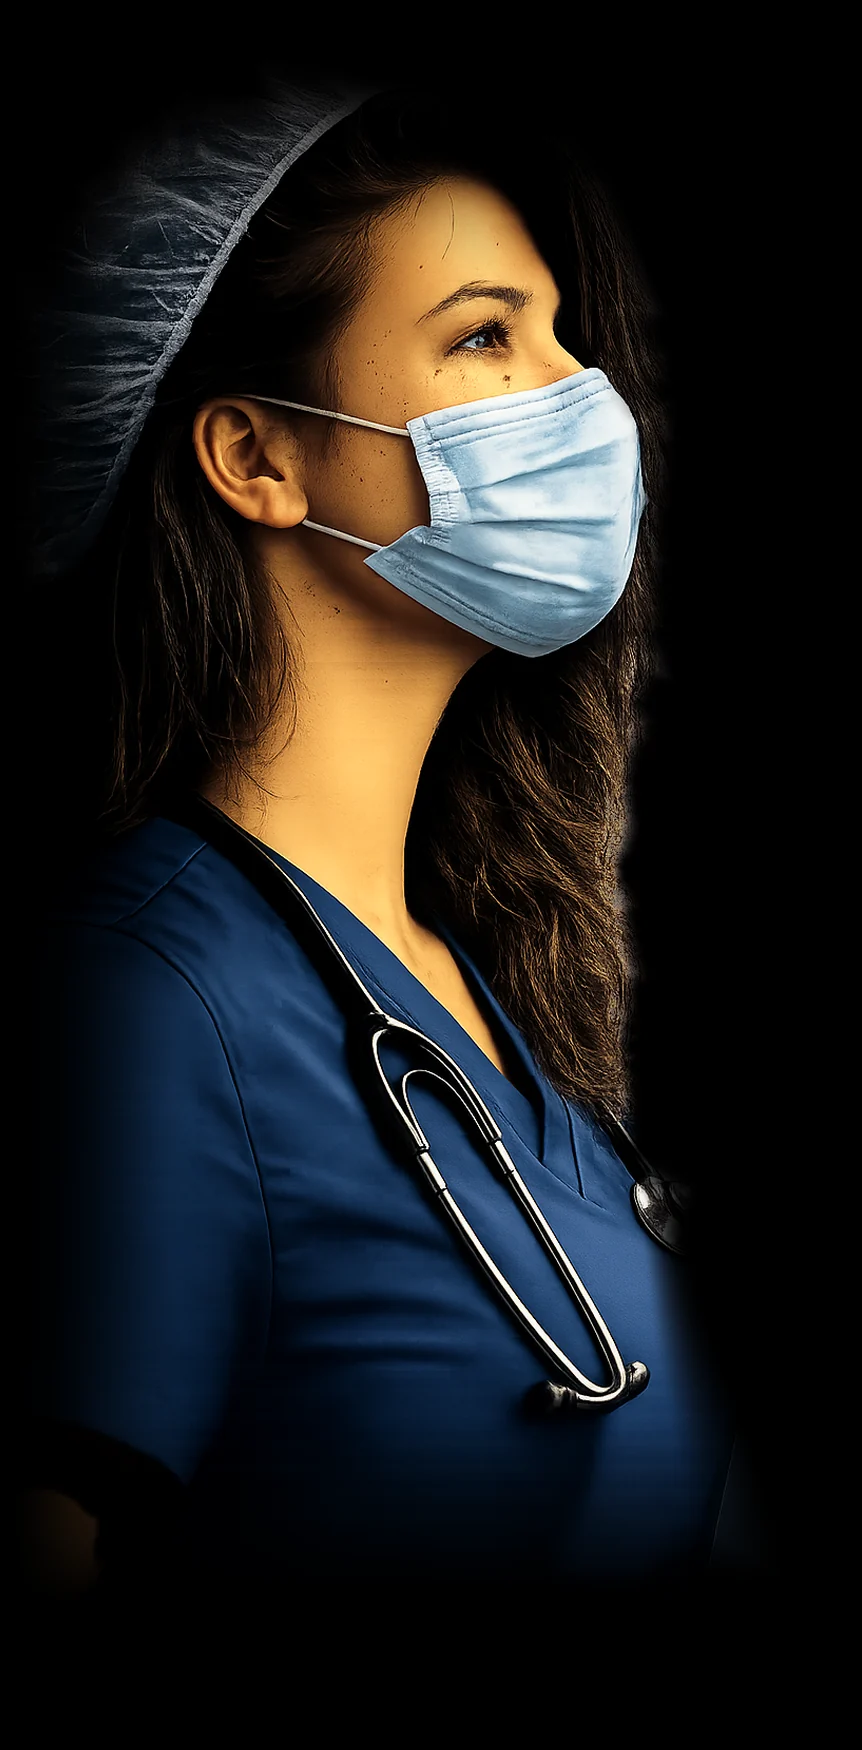
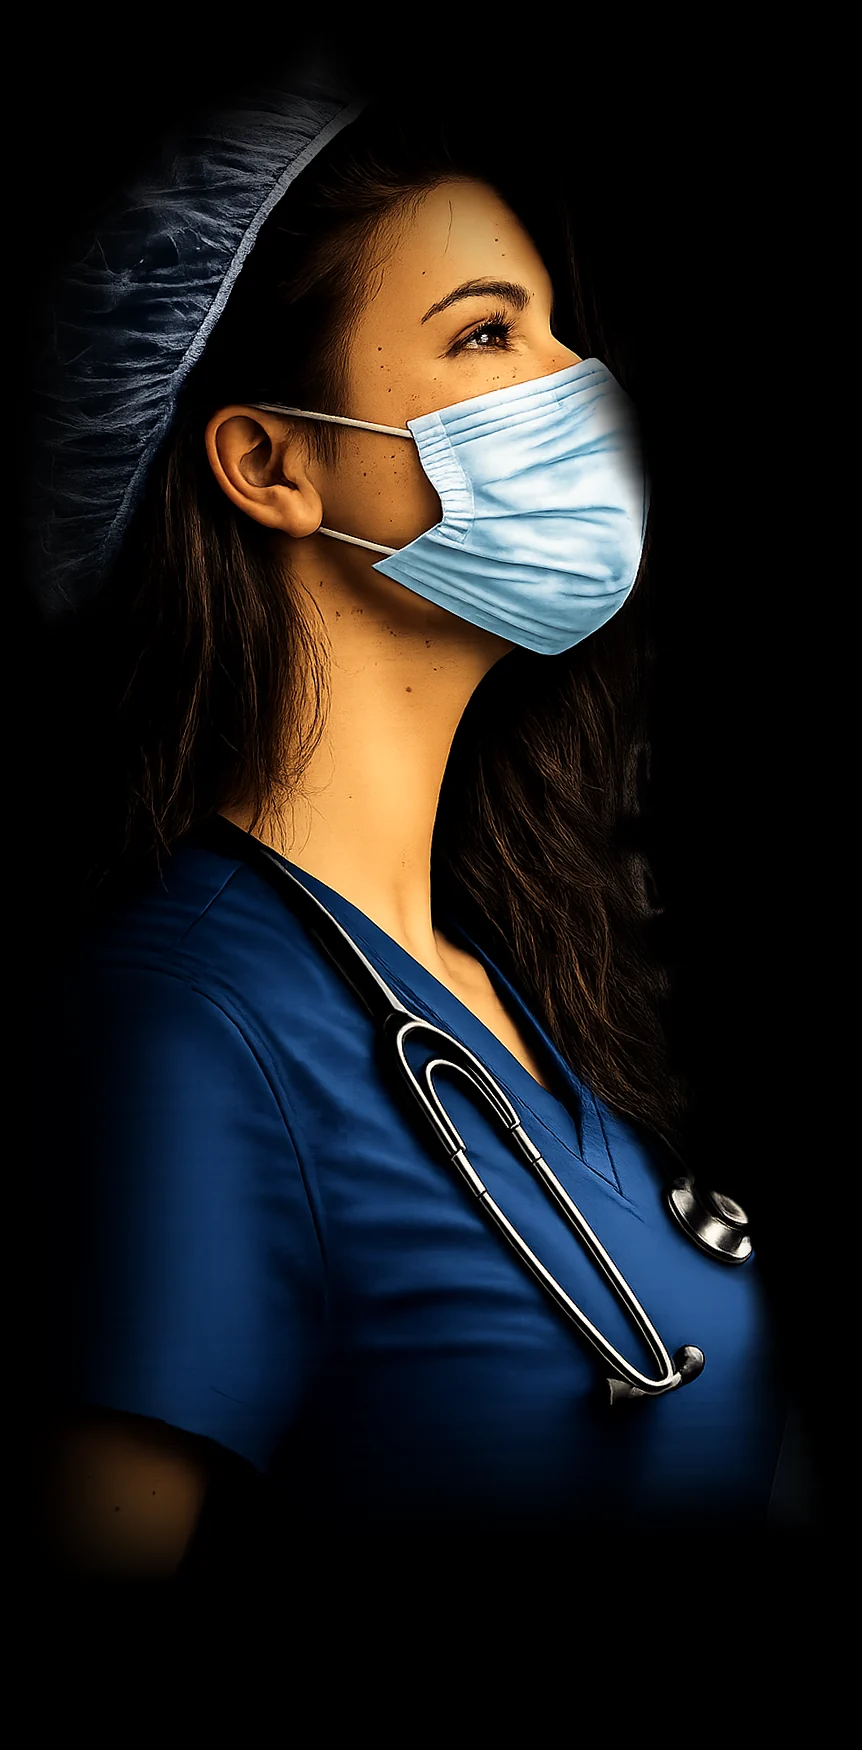
hero: the second nurse plate, where every discriminator flipped
New supplied frame — better hair, warm studio plate instead of grey. The
structure of the last build carried over; not one of its thresholds did.

The previous plate was neutral against warm hair, so saturation keyed the
rim. This one is warm beige against warm hair, so saturation is useless
and brightness does the work: measured across both boundaries, hair and
scrubs run 0-36 against a plate at 100-175.

Four things this plate needed that the last did not:

A darkness test in the seed. The navy scrubs are dark enough that the
diffusion inpaint reproduced them as plate, so the difference against them
came out at zero and the entire lower body fell out of the silhouette. The
plate never goes below 100 (measured p1 = 102), so under 75 is her.

Opposite tests on the two sides. She is inside the frame here so both
edges are real. On the right, walk until the pixel is ACTUALLY hair — dark
AND saturated — because stopping at the first non-bright pixel halts on
the first strand and leaves every patch of plate behind it. On the left
that same test eats the cap, the brightest object in the frame; there the
plate is warm and the cap neutral, so saturation stops the walk instead.

Erode the boundary curve before smoothing it. A median plus a blur
preserves any nub wider than its kernel.

Blob removal for what is trapped behind strands. Interleaved rim neither
protrudes past the boundary nor lies outboard of it, so no walk and no
[…]

Changed region(s): [[0.0905, 0.0617, 0.9049, 0.8949], [0.1206, 0.4011, 0.1508, 0.4629]]

diff --git a/landing/public/assets/hero/CREDITS.md b/landing/public/assets/hero/CREDITS.md
@@ -65,6 +65,58 @@ is the obvious next candidate.
   replaced by the CSS gradient field.
 
 
+## The scroll morph — replaced again 2026-07-28 (second plate)
+
+**nurse.webp / nurse@2x.webp** — a second supplied frame of the same clinician,
+better hair and a warm studio plate instead of a grey one. Built by
+`scratchpad/nurse2/sil3.py` + `compose5.py`.
+
+**Every discriminator flipped, and that is the whole lesson here.** The previous
+plate was neutral grey against warm hair, so saturation keyed the rim. This one
+is warm beige against warm hair, so saturation is useless and brightness does the
+work: measured across both boundaries, hair and scrubs run 0-36 and the plate
+runs 100-175. Nothing about the last build's thresholds transferred; only its
+structure did.
+
+Four things this plate needed that the last one did not:
+
+1. **A darkness test in the seed.** The navy scrubs are dark enough that the
+   diffusion inpaint reproduced them as plate and the difference against them
+   came out at zero — the entire lower body fell out of the silhouette. The
+   plate never goes below 100 (measured p1 = 102), so anything under 75 is her,
+   full stop.
+2. **Opposite tests on the two sides.** She sits inside the frame here, so both
+   edges are real. On the right, walk until the pixel is ACTUALLY HAIR — dark
+   AND saturated — because stopping at the first non-bright pixel halts on the
+   first strand and leaves every patch of plate behind it. On the left that same
+   test eats the cap, which is the brightest object in the frame; there the plate
+   is warm (0.20-0.45) and the cap neutral (under 0.15), so saturation stops the
+   walk instead.
+3. **Erode the boundary curve before smoothing it.** A median plus a blur
+   preserves any nub wider than its kernel. Taking the local extreme inward
+   removes protrusions outright.
+4. **Blob removal for what is trapped behind strands.** The rim is interleaved
+   with the hair, so it neither protrudes past the boundary nor lies outboard of
+   it — no walk and no erosion can reach it. Threshold hard, clean up
+   morphologically, feather the SHAPE and suppress with that. Feathering per
+   pixel instead removes part of each blob and leaves the rest, which reads as
+   mottling and is worse than the blob.
+
+**Registration is now a full similarity**, solved from the same two landmarks
+(pupil 655,340 and ear canal 425,445 against 485,340 and 255,460): scale 1.0261,
+rotation -3.02 deg. Without the rotation term the ear landed 12px out, because
+this head is tilted about three degrees differently from the frame it dissolves
+with. Both landmarks now land exactly.
+
+Falloffs unchanged in kind: left 210px (the canvas still cuts her hair), right
+130, top 330 so the cap dissolves rather than starting at a line, bottom 200.
+
+**Consent, unchanged and still unresolved.** This frame depicts an identifiable
+person presented as a healthcare professional, and no model release accompanies
+it. Flagged, not cleared.
+
+---
+
 ## The scroll morph — replaced 2026-07-28
 
 **nurse.webp / nurse@2x.webp** — a masked clinician in scrubs and a surgical
